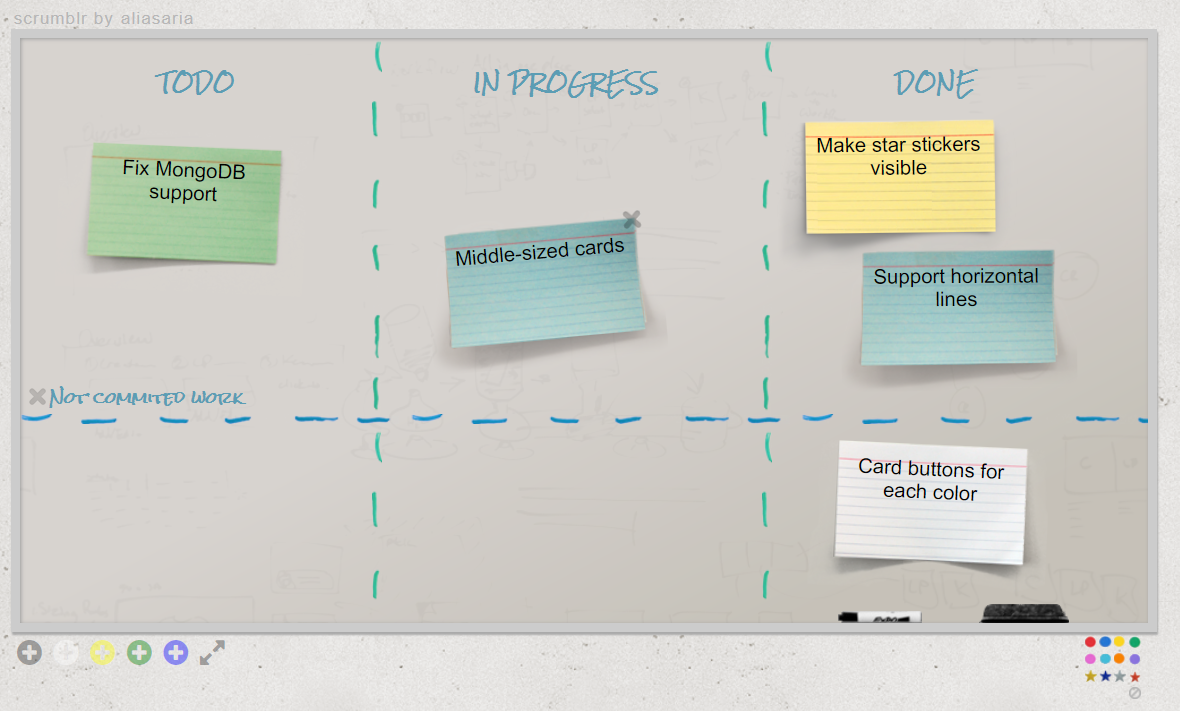
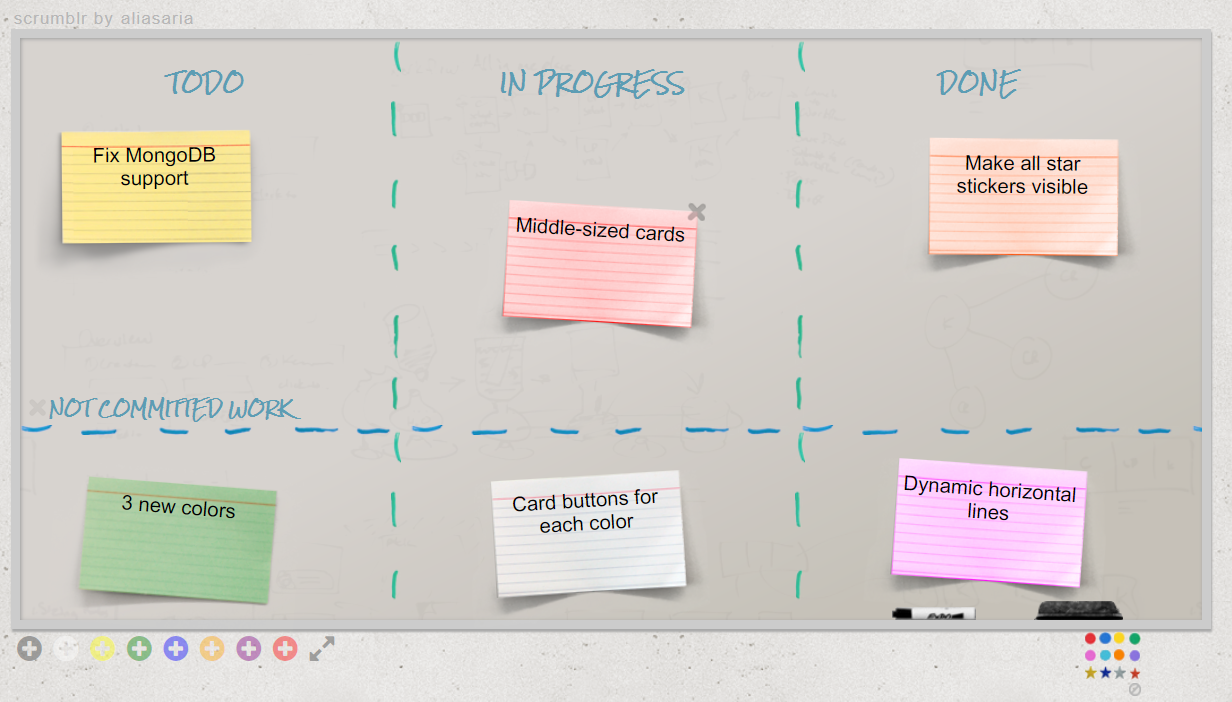
3 new colors of cards added

diff --git a/client/script.js b/client/script.js
@@ -380,7 +380,7 @@ function createCard(id, text, x, y, rot, colour) {
 }
 
 function randomCardColour() {
-    var colours = ['yellow', 'green', 'blue', 'white'];
+    var colours = ['yellow', 'green', 'blue', 'white', 'orange', 'purple', 'red'];
     var i = Math.floor(Math.random() * colours.length);
 
     return colours[i];
@@ -389,11 +389,14 @@ function randomCardColour() {
 function createCardAtRandomPos(color) {
     var rotation = Math.random() * 10 - 5; //add a bit of random rotation (+/- 10deg)
     var id = Math.round(Math.random() * 99999999); //is this big enough to assure uniqueness?
+    var offsetX = Math.round(Math.random() * 50)
+    var offsetY = Math.round(Math.random() * 20)
 
     createCard(
         'card' + id,
         '',
-        58, $('div.board-outline').height(), // hack - not a great way to get the new card coordinates, but most consistant ATM
+        60 + offsetX,
+        $('div.board-outline').height() + 30 + offsetY,
         rotation,
         color);
 }
@@ -857,6 +860,21 @@ $(function() {
     $("#create-card-white")
         .click(function() {
             createCardAtRandomPos('white')
+        });
+
+    $("#create-card-orange")
+        .click(function() {
+            createCardAtRandomPos('orange')
+        });
+
+    $("#create-card-purple")
+        .click(function() {
+            createCardAtRandomPos('purple')
+        });
+
+    $("#create-card-red")
+        .click(function() {
+            createCardAtRandomPos('red')
         });
 
     // Style changer

diff --git a/client/css/style.css b/client/css/style.css
@@ -184,6 +184,24 @@ h3 {
 	color: yellow;
 }
 
+.bottom-icon-orange {
+	padding: 5px;
+	opacity: .4;
+	color: orange;
+}
+
+.bottom-icon-purple {
+	padding: 5px;
+	opacity: .4;
+	color: purple;
+}
+
+.bottom-icon-red {
+	padding: 5px;
+	opacity: .4;
+	color: red;
+}
+
 .bottom-icon:hover {
 	padding: 5px;
 	opacity: .6;
@@ -205,6 +223,21 @@ h3 {
 }
 
 .bottom-icon-yellow:hover {
+	padding: 5px;
+	opacity: .8;
+}
+
+.bottom-icon-orange:hover {
+	padding: 5px;
+	opacity: .8;
+}
+
+.bottom-icon-purple:hover {
+	padding: 5px;
+	opacity: .8;
+}
+
+.bottom-icon-red:hover {
 	padding: 5px;
 	opacity: .8;
 }
